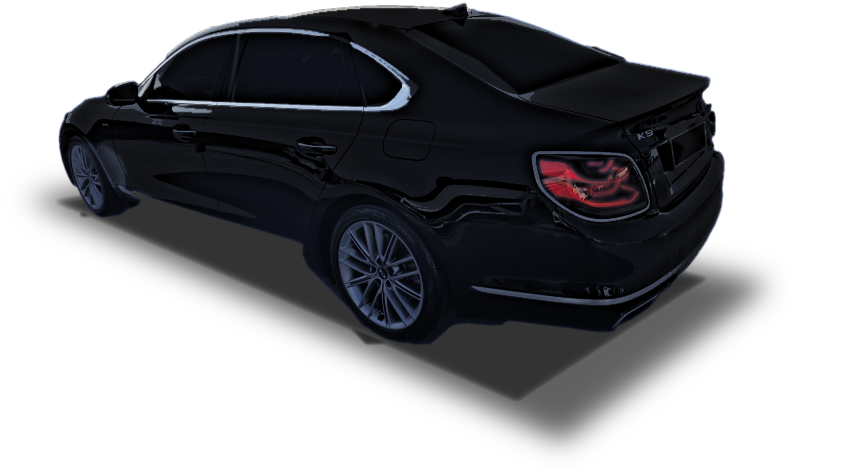
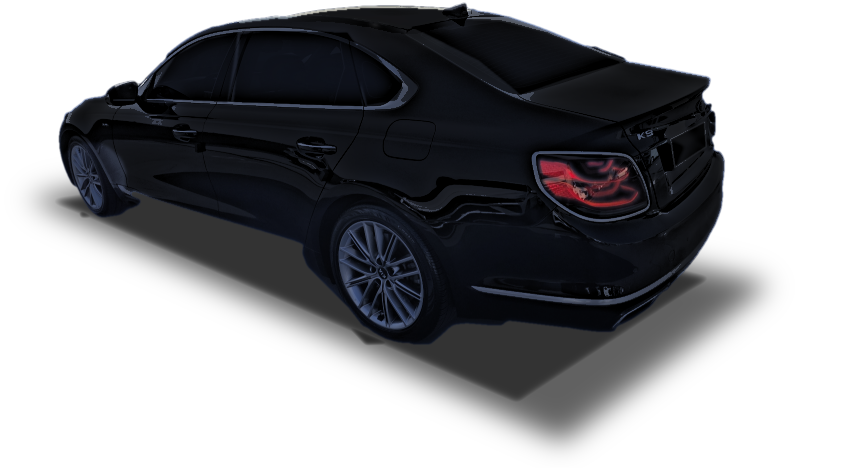
fix(hud): K9 R 사진 차 지붕만 옮김, 창문 크롬은 fc95ab367 그대로 (대감님 11/13 17:03 "아래꺼에서 루프만 따서 위로옮겨")
잘렸던 지붕 띠(2,068 px)+지붕 윤곽(902 px) 영역(5,925 px)만 a5fcbb62b 판, 나머지(창문 둘레 크롬 포함)는 fc95ab367 반사광 제거 판과 화소 동일. 궤적·표식·코드 무변경.

diff --git a/openpilot/selfdrive/carrot/cluster/make_k9_reverse_chrome.py b/openpilot/selfdrive/carrot/cluster/make_k9_reverse_chrome.py
@@ -7,6 +7,7 @@ Photo pixels only (k9_rear3.jpg, same frame as k9_reverse_photo.png: asset px = 
 - then the same glare removal as make_k9_reverse_deglare (wide sun / sky sheen on trunk, roof, glass, bumper stays dead)
 - window chrome (frame round the side windows / C pillar triangle, belt strip) and a thin roof outline take the photo
   pixels back (own brightness and colour); tail lamps, lower chrome, wheels, empty plate untouched (no plate text)
+Since 11/13 17:03 ("루프만") only the roof is moved onto the deglared asset; window chrome stays deglared.
 Run:  python make_k9_reverse_chrome.py <k9_rear3.jpg>
 """
 import sys
@@ -84,8 +85,15 @@ def main(src: str) -> None:
     keep = cv2.GaussianBlur(keep, (0, 0), 0.6)[..., None]
     res = base[..., :3] * (1 - keep) + orig * keep
     img = np.dstack([res, base[..., 3]])
+    # 11/13 17:03 "아래꺼에서 루프만 따서 위로옮겨": only the roof (added strip + roof outline) goes onto the
+    # deglared asset (fc95ab367 = dg.deglare(load_ref())); window chrome and everything else stay as before
+    old = dg.deglare(ref.copy())
+    chrome_zone = cv2.GaussianBlur(chrome.astype(np.float32), (0, 0), 0.6) > 1e-3
+    roof_zone = cv2.dilate(((add > 0) | top).astype(np.uint8), np.ones((9, 9), np.uint8)) > 0
+    roof_zone &= ~chrome_zone
+    img = np.where(roof_zone[..., None], img, old)
     cv2.imwrite(str(OUT), np.clip(img * 255 + 0.5, 0, 255).astype(np.uint8))
-    print("roof px added", int((add > 0.5).sum()), "chrome px", int(chrome.sum()), "outline px", int(top.sum()))
+    print("roof zone px", int(roof_zone.sum()), "roof px added", int((add > 0.5).sum()), "chrome px", int(chrome.sum()), "outline px", int(top.sum()))
 
 
 if __name__ == "__main__":
